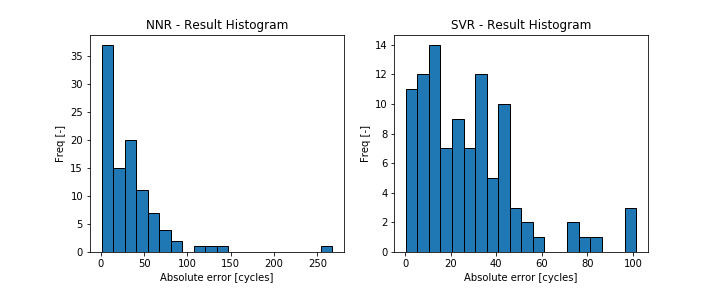
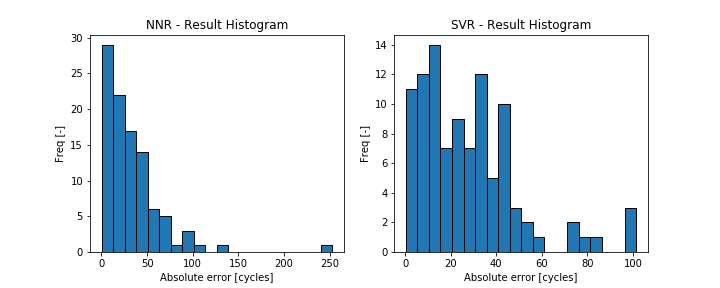
Plot fix

diff --git a/README.md b/README.md
@@ -19,9 +19,9 @@ I chose three different metrics to assess the prediction for each model. Mean sq
 
 | Metric                     | Neural Network | SVM   |
 | -------------------------- |:--------------:| -----:|
-| MSE                        | 5.39           | 3.54  |
-| Median absolute difference | 27.86          | 22.96 |
-| Score                      | 3.56e6         | 677.2 |
+| MSE                        | 4.71           | 3.54  |
+| Median absolute difference | 24.88          | 22.96 |
+| Score                      | 9.15e8         | 677.2 |
 
 ![Example](img/scatter_nnr.png)
 ![Example](img/scatter_svm.png)
